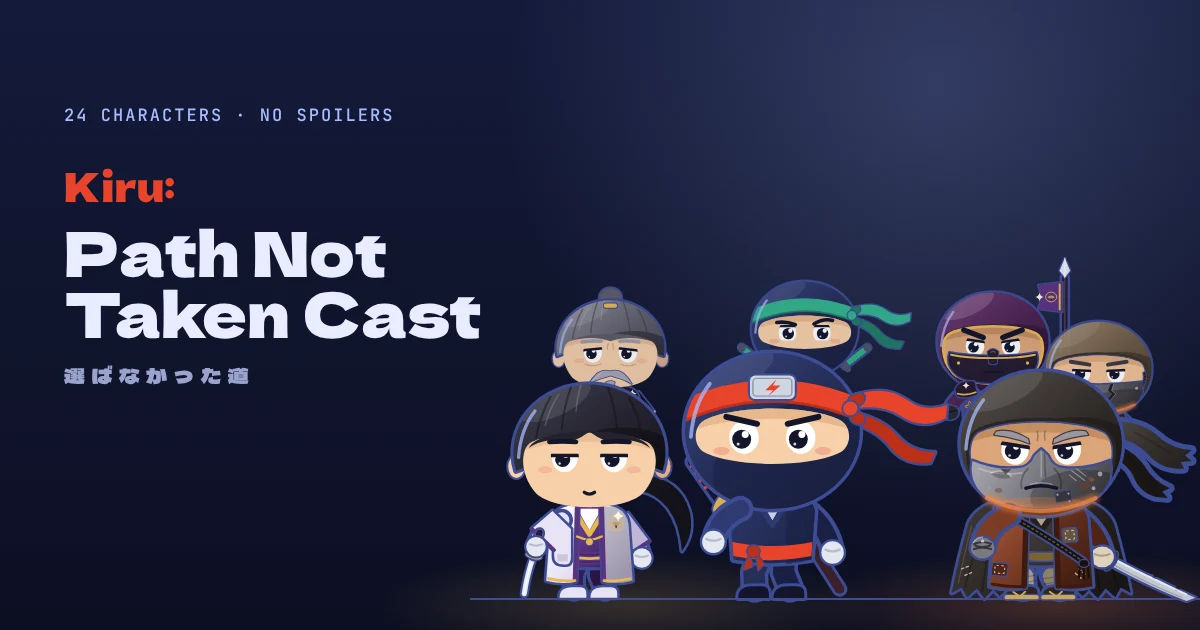
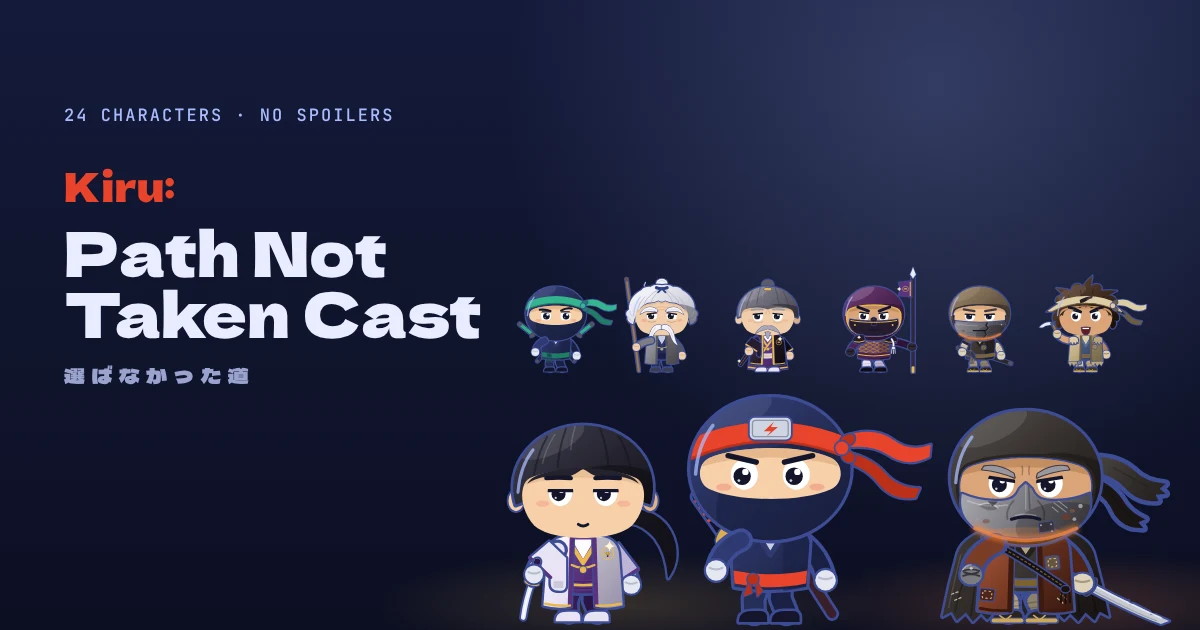
Kiru: Path Not Taken Cast card, back row raised and smaller
Laid out like the Neo Dojo Cast card, at Josh's ask: six of the cast
(Koji, Master Hideo, Lord Noboru, Captain Arai, Genji and Toma) small on a
raised line, with Daichi, Kiru and Kuroda along the bottom. The ground line
is gone and the bottom-left stays clear for the Meet the cast pill. The
alt text on /kiru and the page's og:image:alt name the new back row.

Claude-Session: https://claude.ai/code/session_01BPi8ETAkAGybw4cT6VvGob

Changed region(s): [[0.4008, 0.4222, 1.0, 0.9952]]

diff --git a/public/kiru/path-not-taken-cast/index.html b/public/kiru/path-not-taken-cast/index.html
@@ -14,7 +14,7 @@
 <meta property="og:image" content="https://smartdisruptions.com/images/kiru/path-not-taken-cast-og.webp">
 <meta property="og:image:width" content="1200">
 <meta property="og:image:height" content="630">
-<meta property="og:image:alt" content="Kiru the ninja between Daichi of House Sagara, in a white silk coat lined with violet and gold, and the general Kuroda in a rust coat and iron mask, with Lord Noboru, Koji, Captain Arai and Genji behind them">
+<meta property="og:image:alt" content="Kiru the ninja between Daichi of House Sagara, in a white silk coat lined with violet and gold, and the general Kuroda in a rust coat and iron mask, with Koji, Master Hideo, Lord Noboru, Captain Arai, Genji and Toma behind them">
 <meta name="twitter:card" content="summary_large_image">
 <meta name="theme-color" content="#0c0f22">
 <link rel="preconnect" href="https://fonts.googleapis.com">

diff --git a/src/app/kiru/page.tsx b/src/app/kiru/page.tsx
@@ -343,7 +343,7 @@ export default function KiruPage() {
           {/* eslint-disable-next-line @next/next/no-img-element -- a fixed-size static card, nothing for next/image to do */}
           <img
             src="/images/kiru/path-not-taken-cast-og.webp"
-            alt="Kiru the ninja between Daichi of House Sagara, in a white silk coat lined with violet and gold, and the general Kuroda in a rust coat and iron mask, with Lord Noboru, Koji, Captain Arai and Genji behind them"
+            alt="Kiru the ninja between Daichi of House Sagara, in a white silk coat lined with violet and gold, and the general Kuroda in a rust coat and iron mask, with Koji, Master Hideo, Lord Noboru, Captain Arai, Genji and Toma behind them"
             width={1200}
             height={630}
             loading="lazy"
